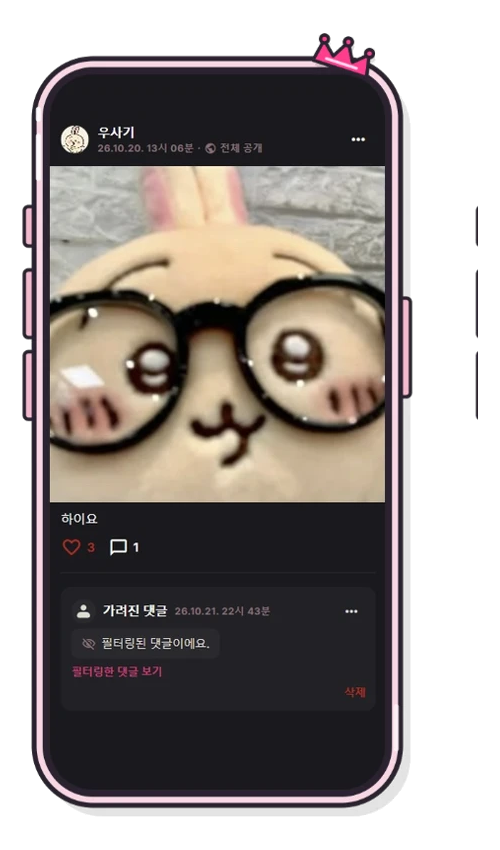
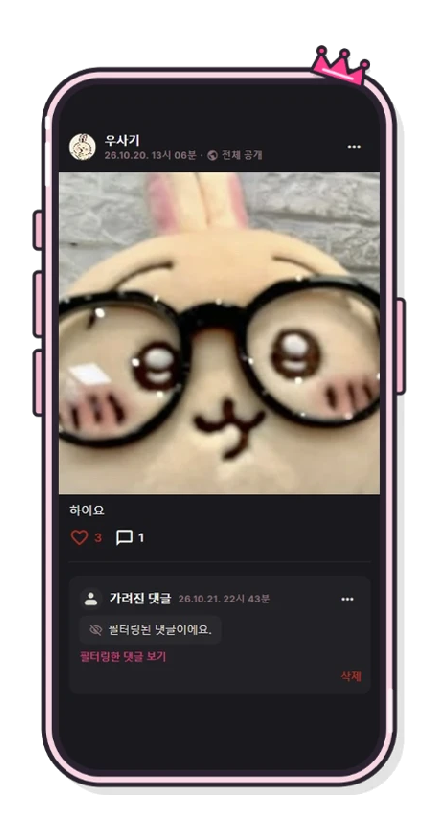
docs: FE README 화면 갤러리 크기와 이미지 여백 통일

diff --git a/README.md b/README.md
@@ -24,20 +24,15 @@
 
 | 미션·응모권 | 이벤트 응모 | 당첨 결과·알림 |
 | :---: | :---: | :---: |
-| <img src="./docs/assets/readme/fe/welcome-quest.png" alt="웰컴 퀘스트 및 출석 응모권 화면" width="230" /> | <img src="./docs/assets/readme/fe/event-entry.png" alt="이벤트 응모권 선택 화면" width="230" /> | <img src="./docs/assets/readme/fe/notifications.png" alt="당첨 및 응모권 지급 알림 화면" width="230" /> |
-| 웰컴 퀘스트·출석 미션으로<br />응모권 획득 | 응모권 종류·수량을 선택하고<br />이벤트에 응모 | 당첨 발표와 응모권 지급<br />알림 확인 |
+| <img src="./docs/assets/readme/fe/welcome-quest.png" alt="웰컴 퀘스트 및 출석 응모권 화면" width="142" /> | <img src="./docs/assets/readme/fe/event-entry.png" alt="이벤트 응모권 선택 화면" width="142" /> | <img src="./docs/assets/readme/fe/notifications.png" alt="당첨 및 응모권 지급 알림 화면" width="142" /> |
+| 웰컴 퀘스트·출석 미션<br />응모권 획득 | 응모권 종류·수량 선택<br />이벤트 응모 | 당첨 발표·응모권 지급<br />알림 확인 |
 
 ### 크리에이터·AI 기능
 
-| 맞춤 크리에이터 추천 | Creator Space · 게시물 |
-| :---: | :---: |
-| <img src="./docs/assets/readme/fe/recommendations.png" alt="맞춤 크리에이터 추천 화면" width="220" /> | <img src="./docs/assets/readme/fe/creator-space.png" alt="Creator Space 게시물 및 댓글 화면" width="220" /> |
-| 관심사 기반 크리에이터 추천과 도킹 | 크리에이터 콘텐츠 열람·좋아요·댓글 |
-
-| YouTube 구독 인증 미션 | AI 퀴즈 미션 |
-| :---: | :---: |
-| <img src="./docs/assets/readme/fe/youtube-verification.png" alt="YouTube 구독 인증 화면" width="220" /> | <img src="./docs/assets/readme/fe/ai-quiz.png" alt="AI 퀴즈 응시 화면" width="220" /> |
-| 구독 화면 업로드·검증 결과 확인 | 콘텐츠 기반 퀴즈 응시·보상 획득 |
+| 맞춤 크리에이터 추천 | Creator Space · 게시물 | YouTube 구독 인증 미션 | AI 퀴즈 미션 |
+| :---: | :---: | :---: | :---: |
+| <img src="./docs/assets/readme/fe/recommendations.png" alt="맞춤 크리에이터 추천 화면" width="118" /> | <img src="./docs/assets/readme/fe/creator-space.png" alt="Creator Space 게시물 및 댓글 화면" width="118" /> | <img src="./docs/assets/readme/fe/youtube-verification.png" alt="YouTube 구독 인증 화면" width="118" /> | <img src="./docs/assets/readme/fe/ai-quiz.png" alt="AI 퀴즈 응시 화면" width="118" /> |
+| 관심사 기반 추천·도킹 | 게시물·좋아요·댓글 | 구독 인증 이미지 제출 | 퀴즈 응시·보상 획득 |
 
 <br />
 
